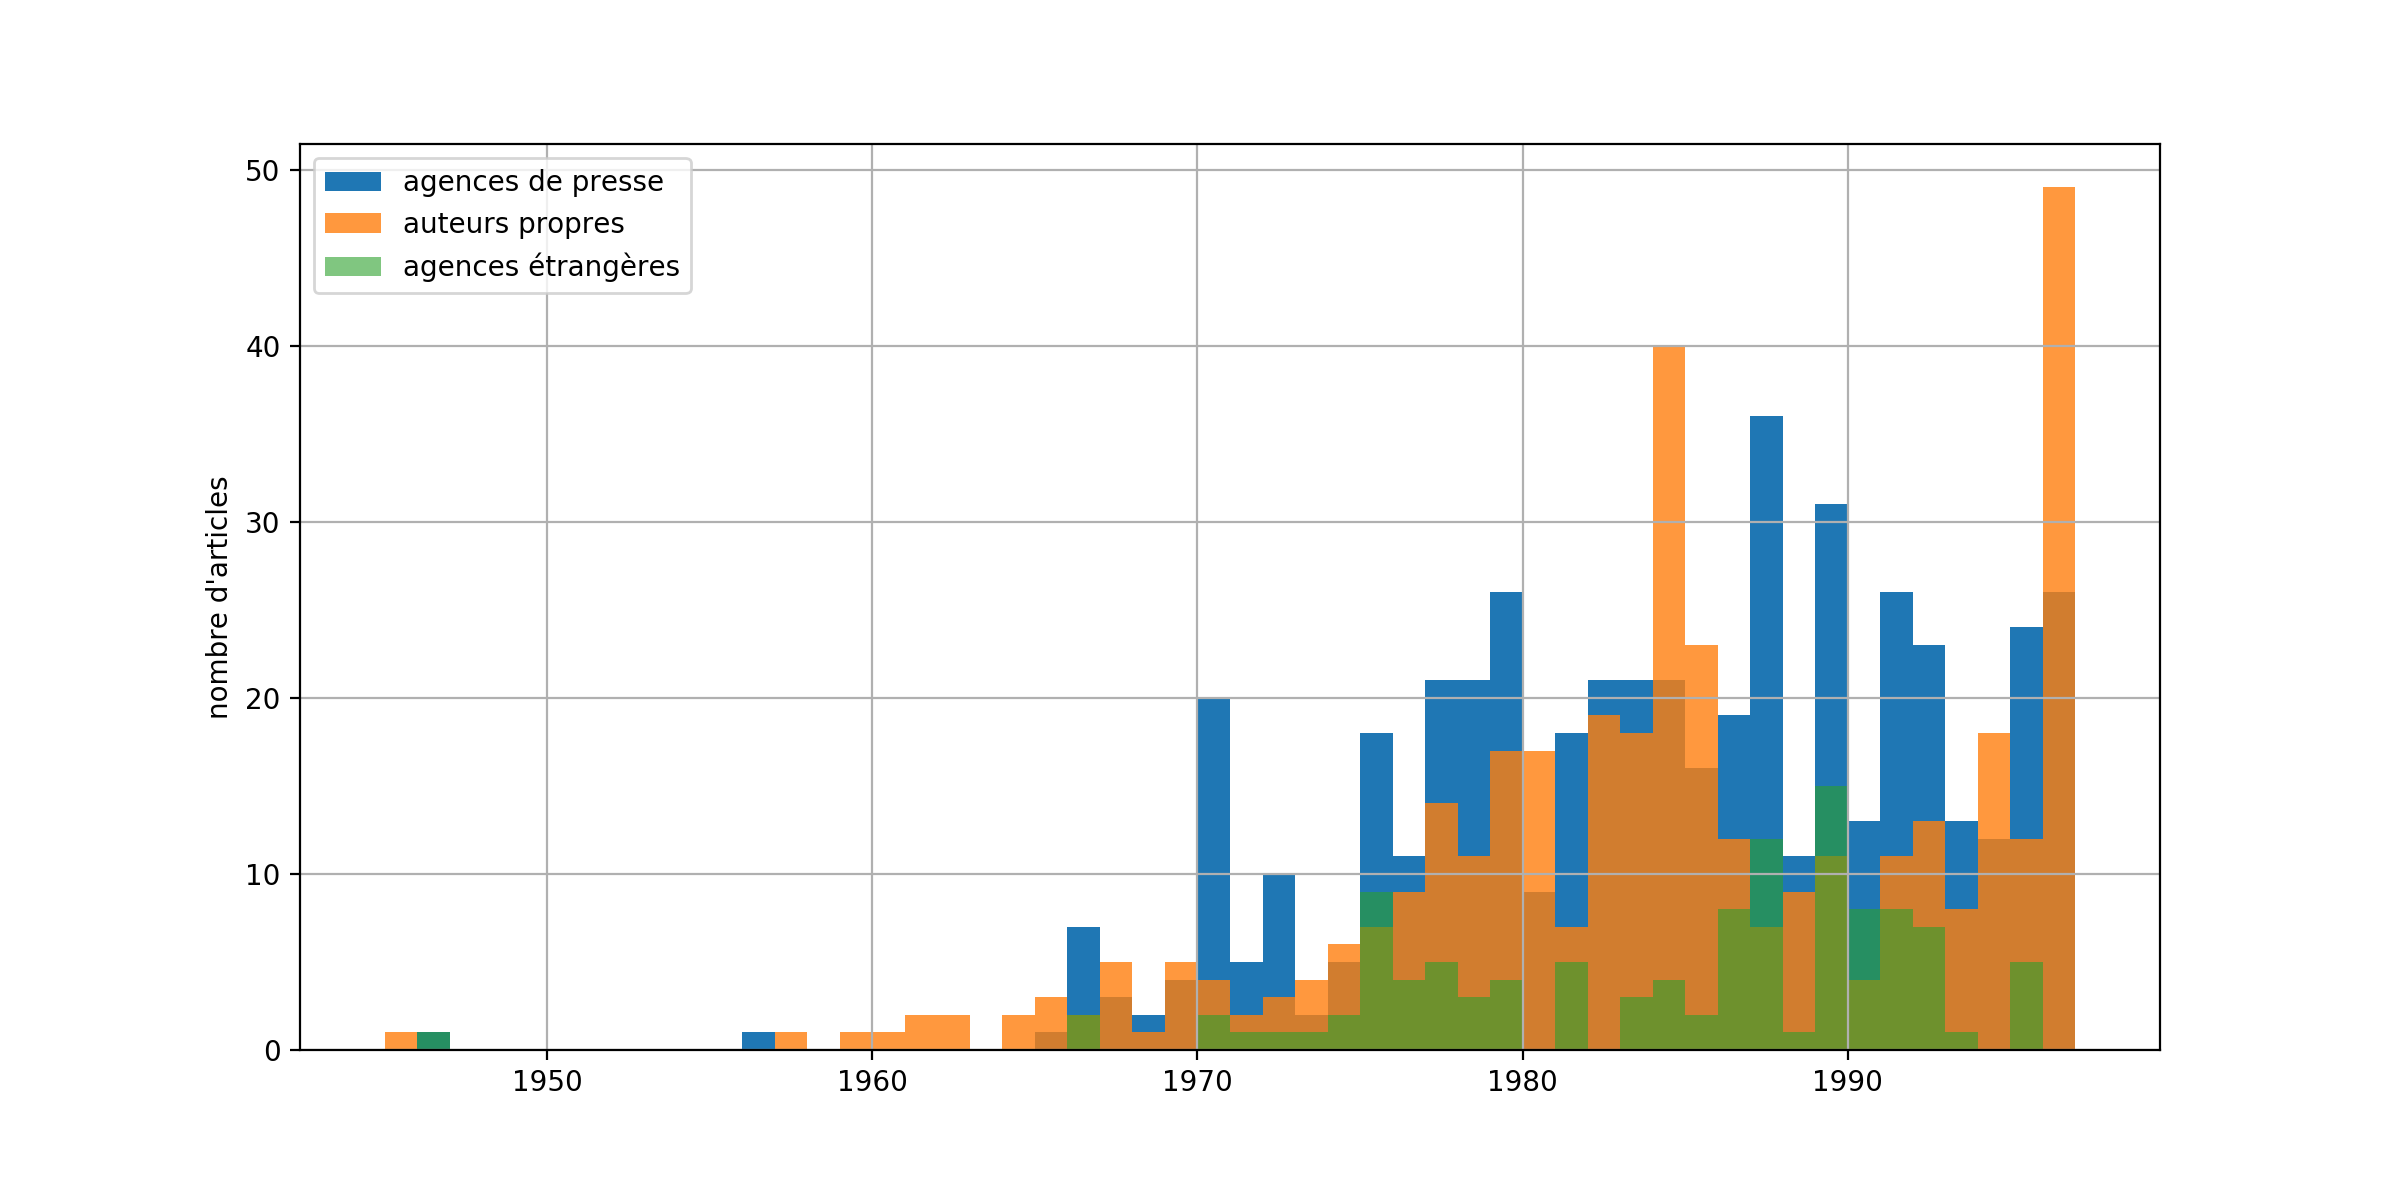
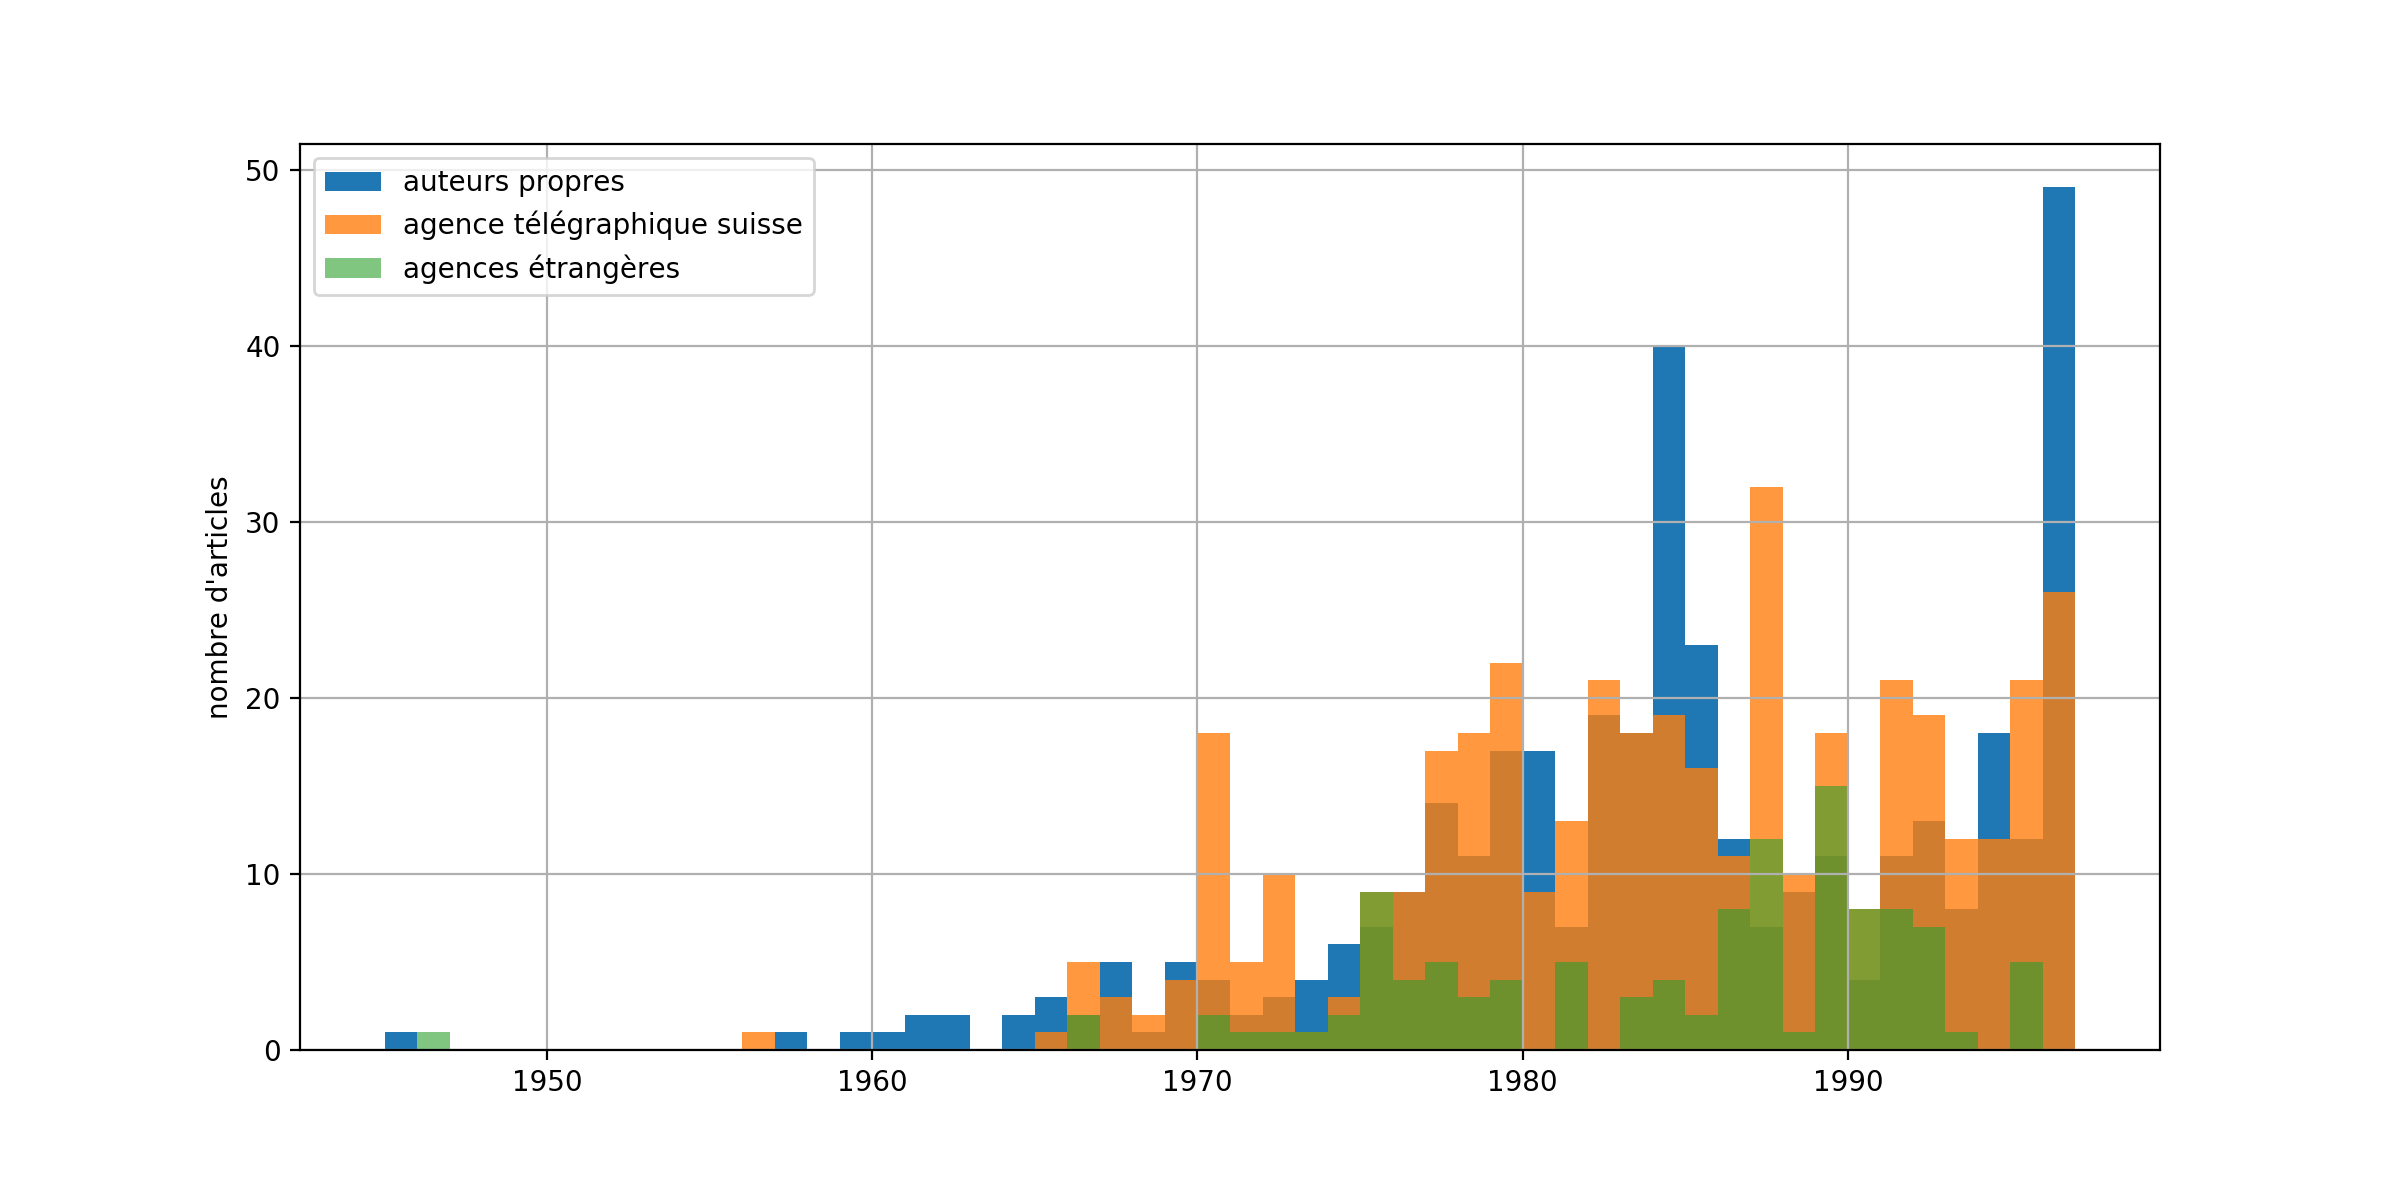
add part from reading in analysis

diff --git a/rapport/analysis/analysis.md b/rapport/analysis/analysis.md
@@ -5,42 +5,77 @@
 
 Le sujet du secret bancaire à suscité une centaines de premières pages au sein
 des deux journaux de 1940 jusque à la fin des années 90s. Ce chiffre rélativement
-petit nous permets de lire les premières pages pour mieu contextualiser une
-analyse quantitatives des auteurs et des sources de dépêches.
+petit nous permets de lire les premières pages pour mieu contextualiser nos
+autres analyses.
 
 De manière générale et excluant l'année 1984 de l'initiative populaire au même
 sujet, le secret bancaire n'est pas un sujet très important dans le corpus
 financier des deux journaux. Le sous-corpus "secret bancaire" ne constitue que
 5% des articles du corpus financier, qui lui-même ne contient que une petite
 partie de tous les articles financiers. Il est remarquable que dans le sous-corpus
-la proportion d'articles qui proviennent d'agences de presse et de dix pour-cent
+la proportion d'articles qui proviennent d'agences de presse est de dix pour-cent
 plus élevé que dans le corpus financier (29% pour "secret bancaire", 18% pour
 financier). Cela montre que le sujet a moins d'importance pour les rédactions,
-elles utilisent souvent des dépêches pour parler du sujet.
+qui utilisent souvent que des dépêches pour en parler.
 
 Si nous voulons regarder de plus près l'origine de cet intérêt, nous sommes
-amenés à comparer la fraction de dépêches venant de l'étranger à ceux de
+amenés à comparer la fraction de dépêches venant de l'étranger à celles de
 l'Agence télégraphique suisse (ATS). La figure \ref{percentage} montre comment
 cette fraction évolue dans le sous-corpus avec le temps. Nous trouvons deux
 périodes où les dépêches étrangères ont une certaine présence: 1972 -- 1977 et
-1986 -- 1992.
+1986 -- 1992. Ce sont des périodes de rélative calme, où à l'interieur de la
+Suisse le sujet n'est pas d'actualité.
+
 
 ![\label{percentage} Distribution relative des articles d'agences de presse
 étrangères pour "secret bancaire".](agency_percentage.png){ width=90% }
 
-En revenant au contexte historique, nous pouvons citer quelques évènements qui
-ont lieux dans ces deux périodes...
+La série temporelle du nombre d'articles par catégorie d'auteur mets en évidence
+une nette chute de l'utilisation de dépêches etrangères qui parlent du secret
+bancaire pendant la période exactement avant la votation de 1984. Vues la forte
+orientation politiques des deux rédactions contraires à l'initiative, on peut
+supposer que les articles d'agences étrangères, qui ne concernent pas l'initiative,
+sont minimisé pour qu'ils ne détournent pasl'attention des lecteures.
 
-- 1972 – 77 bcp de noise, mais quand même:
-  - investigations francaises
-  - traité americo-suisse
+La lecture des première pages, on peut trouver le suivant
+ ensemble de périodes majeures dans l'histoire du secret bancaire:
 
-- 1986 – 92:
-  - on voit les scandales
+- 1940--45: le secret bancaire est menacé des l'interieur par le gouvernement,
+    à cause de l'économie de guerre, et des l'exterieur par les futures nations
+    unies, qui désirent l'entraide judiciaire et fiscal
+- 1946--65: période de calme où aucune attaque organique est montée contre le
+    secret bancaire. Quelque frictions avec la France se resoudent en rien de
+    fait. ###XXX
+- 1966--70: tension et effort diplomatique avec les États-Unis, qui critiquent
+    dûrement le secret bancaire qui leur empèche de investiguer éfficacement
+    la criminalité organisé. La question se resoud avec des accords bilatéraux
+    qui concèdent très peu à la justice americaine.
+- 1975--84: tumultes intérieurs vis au secret bancaire. L'économie en récession
+    et la force du Franc Suisse dans les marchés de devises portent les milieux
+    politiques socialistes à attaquer le secret bancaire comme responsable. Le
+    débat intérieur continue jusqu'à 1984, quand l'initiative socialiste contre
+    le secret bancaire est repoussée.
+- 1987--89: pressions americaines poussent la Suisse à approuver la levée du
+    secret bancaire dans les cas de manipulations des marchée (insider trading),
+    délit qui n'était pas persecuté en Suisse jusque alors.
+- 1996--suite: Affaire des fonds juifs en déshérence. Le conseil national vote à
+    l'unanimité pour la levée du secret bancaire pour la commission Bergier.
 
-La presse française (AFP) ne traite pas tellement l'initiative mais les suisses oui.
-
-Les auteurs traitent surtout l'initiative, ils sont dans des milieux financiers actifs dans les deux journaux.
+Surtoût est intéressante la façon dont on en parle dans les deux journaux au cours
+de ces périodes. Dans les première periodes, le ton est positif et tranquil.
+En 1975 le ton change repentinement,
+des articles écrits par Marian Stepcinsky, Jean-Luc Lederrey, et par le futur
+politicien libéral Jacques Simon Eggly gagnent souvent la première page. Ces
+articles sont des pièce d'opinion, souvent virulent, où les lecteur sont rappelé aux avantages du
+secret bancaire. Contrairement, dans les periodes précédentes, les avantages du
+secret bancaire été considéré trops evidents pour les remarquer. Ces articles
+d'opinion forment une véritable propagande en faveur du secret bancaire, et
+contre les socialistes, et donnent des précise indications de vote dans le
+mois avant la votation de l'initiative en 1984.
+La tonalité des articles redevient enfin plus objéctive, et se rassouplie, après
+que l'initiative est rejeté. Les lois sur la manipulation des marchés et la
+commisison Bergier ne sont pas perçus comme menace essentielles à la stabilité
+de la place finacière.
 
 
 ### Comparaison des deux journaux
@@ -56,6 +91,7 @@ Cependant ici, comme dans le Journal de Genève le nom des banques suisse appara
 ![\label{percentage} Chi²-Test du terme "ubs" dans la Gazette de Lausanne.](ubs_chisquare_gdl.png){ width=90% }
 
 Tout ceci semble indiquer que, même si l’emphase apportée sur les différents événements entourant l’histoire du secret bancaire au XXe siècle est différentes entre les deux journaux, les deux semblent aussi dissocier les banques du sujet même du secret bancaire.
+
 ### Conclusions
 
 messages principaux de la partie de Yann:
